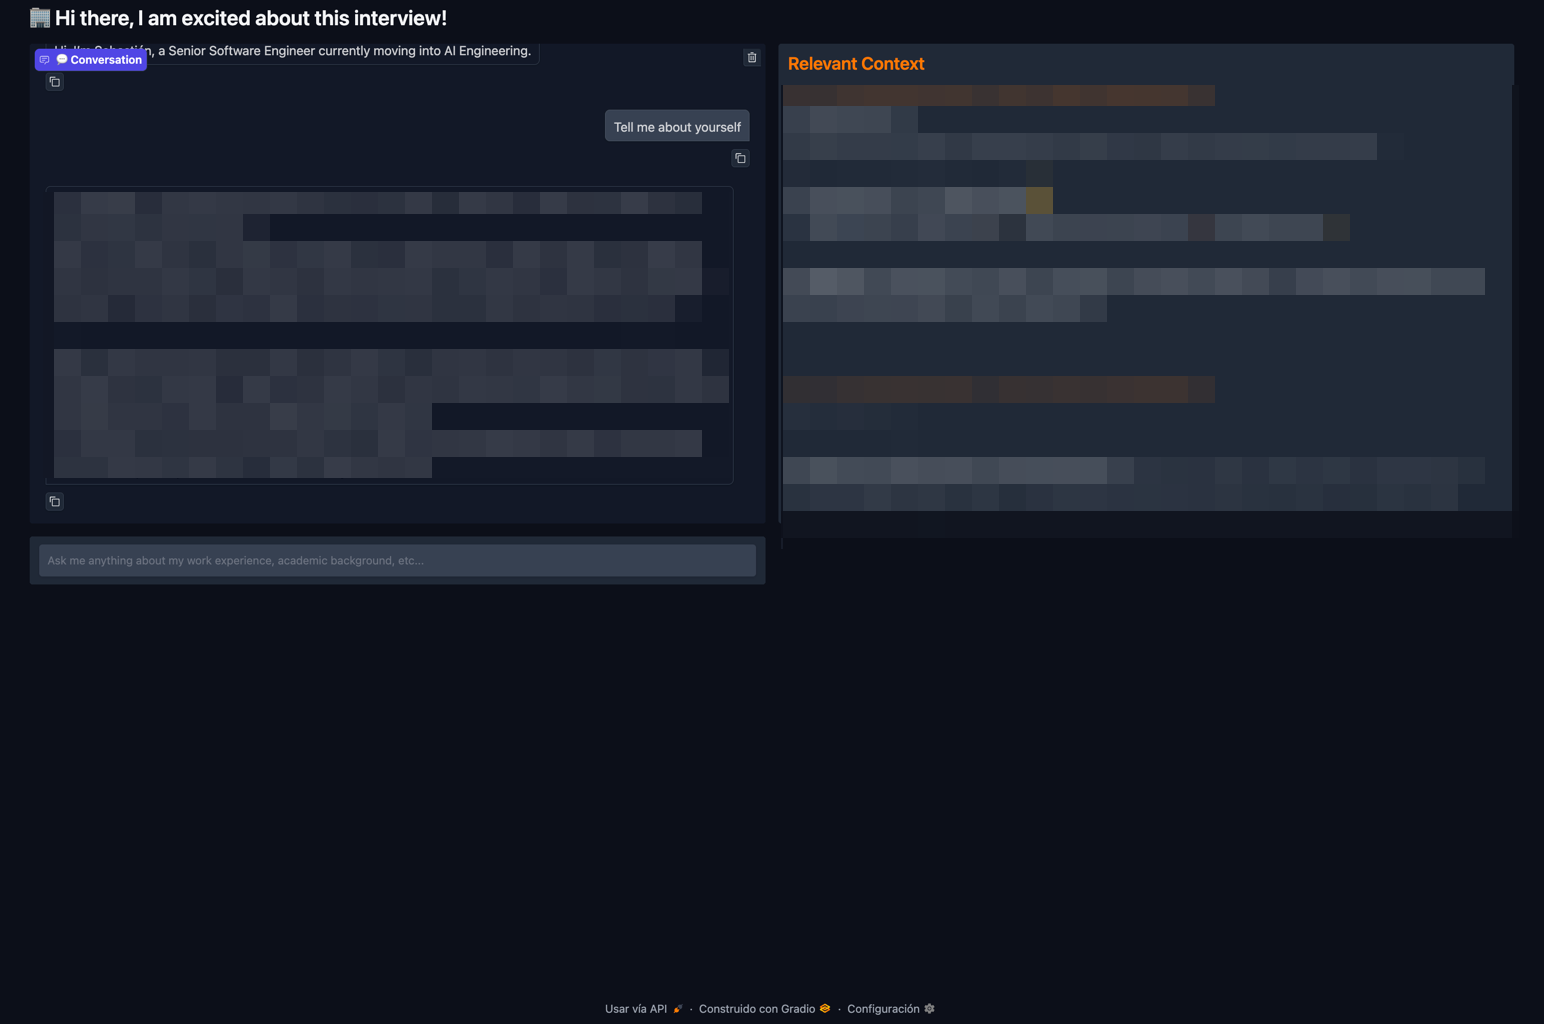
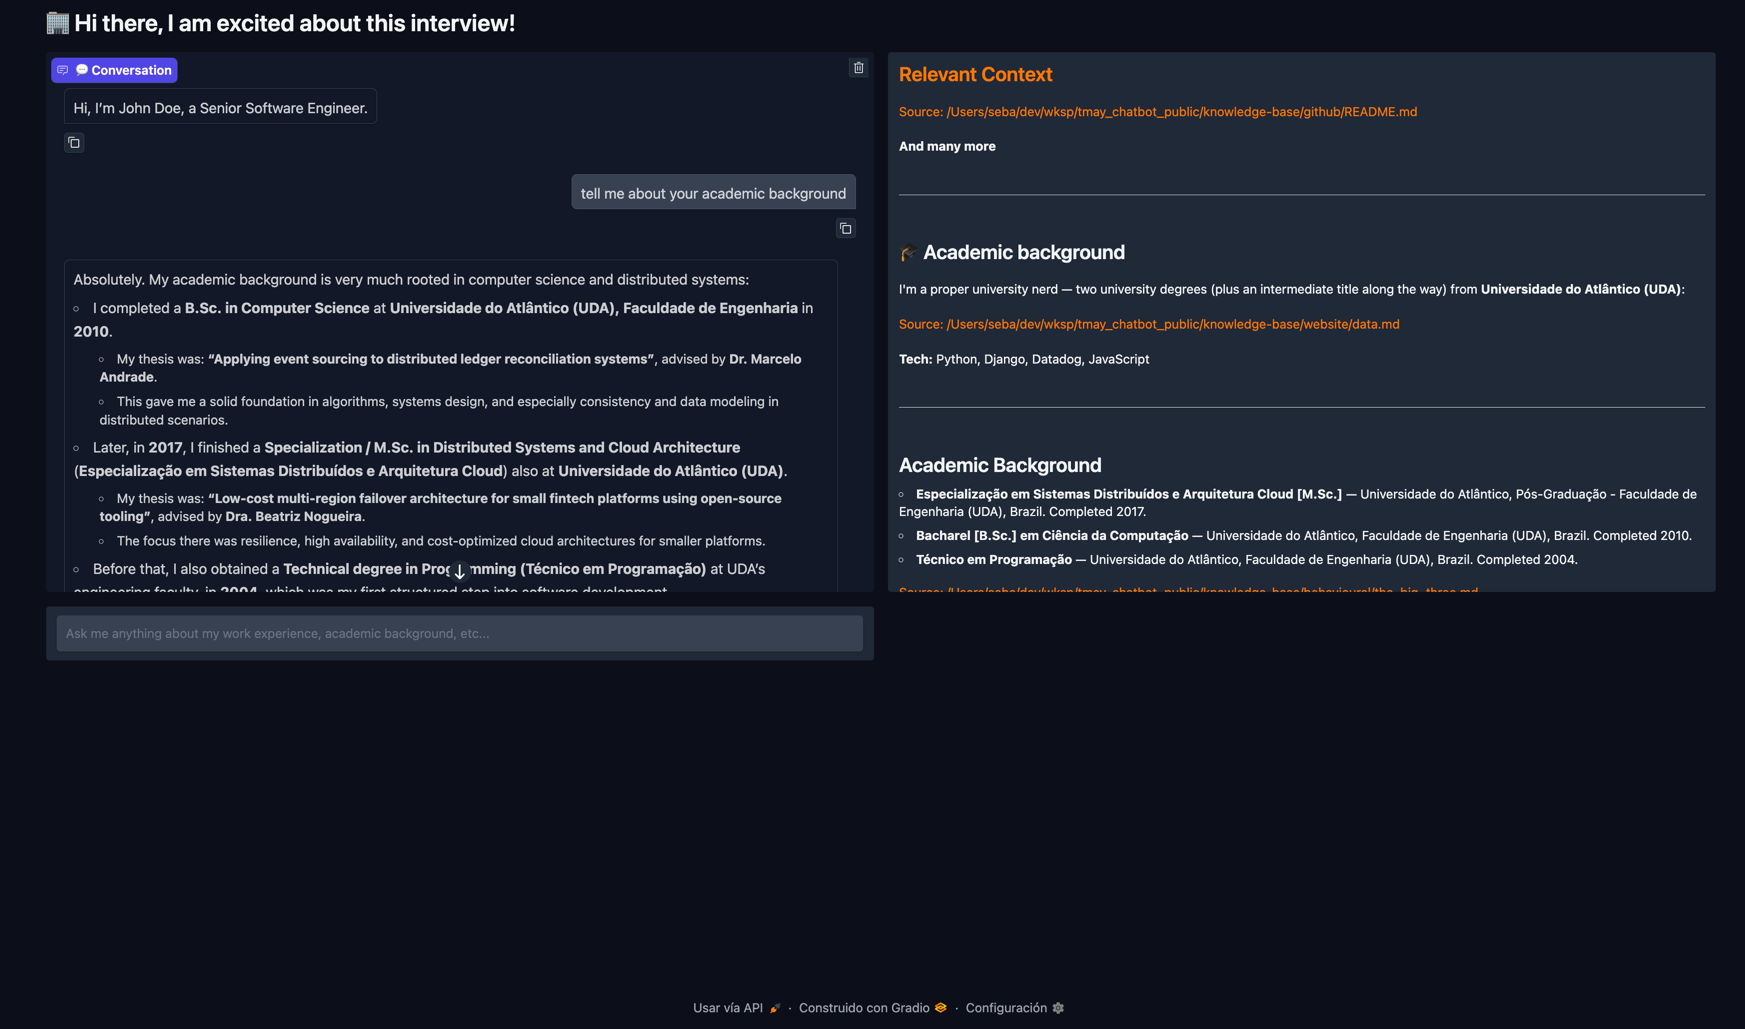
Updated screenshot

Changed region(s): [[0.0, 0.0312, 0.9948, 0.6562], [0.0, 0.0, 0.342, 0.125], [0.4041, 0.9688, 0.6218, 1.0]]

diff --git a/README.md b/README.md
@@ -60,7 +60,7 @@ All apps live in `tmay_chatbot/app/` and are launched through the Makefile.
 ### Chatbot
 
 `make chatbot` opens the conversation on the left and the chunks retrieved for the last answer, with their
-sources, on the right (personal content blurred in this screenshot).
+sources, on the right.
 
 ![Chatbot app](docs/images/chatbot.png)
 
